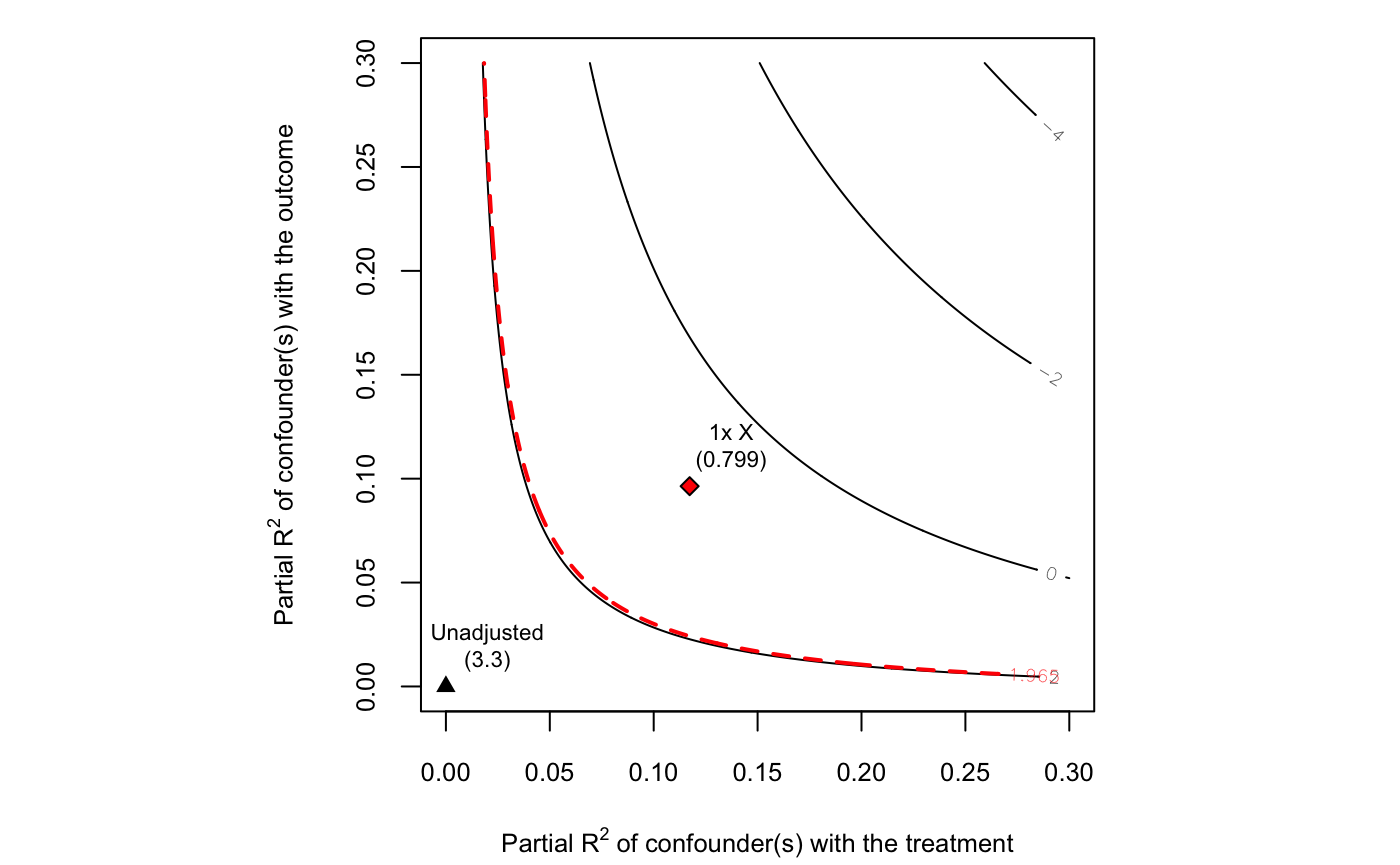
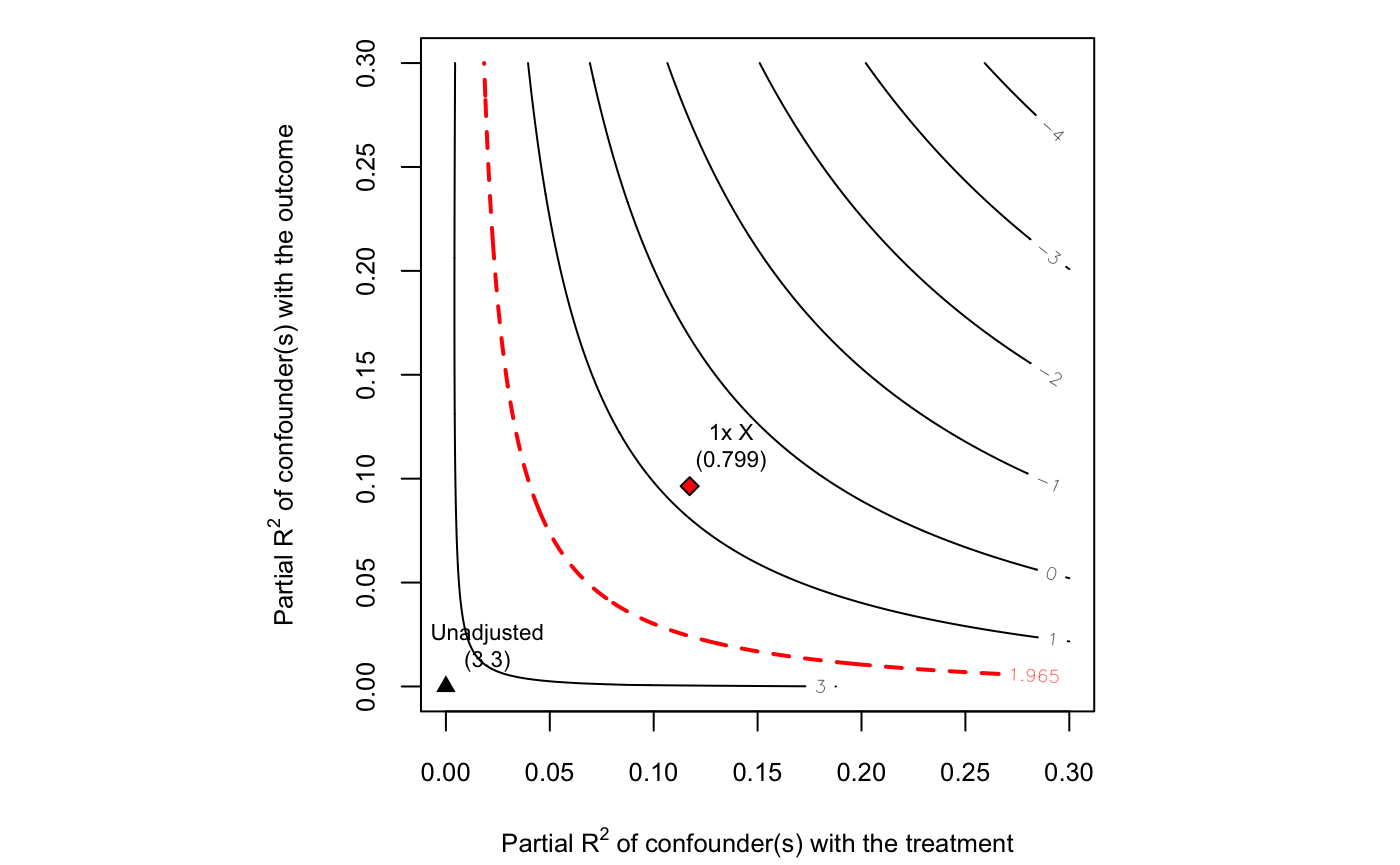
- update on "too close" contour lines

diff --git a/docs/articles/sensemakr.html b/docs/articles/sensemakr.html
@@ -141,24 +141,26 @@ Y &amp;= X + Z + U_y
 <a href="#sensitivity-analysis" class="anchor"></a>Sensitivity analysis</h1>
 <p>To peform sensitivity analysis, our investigator starts by passing the estimated model to the function <code><a href="../reference/sensemakr.html">sensemakr()</a></code>, along with the treatment of interest <span class="math inline">\(D\)</span></p>
 <div class="sourceCode" id="cb3"><pre class="sourceCode r"><code class="sourceCode r"><a class="sourceLine" id="cb3-1" data-line-number="1"><span class="kw"><a href="https://rdrr.io/r/base/library.html">library</a></span>(sensemakr)</a>
-<a class="sourceLine" id="cb3-2" data-line-number="2">sense.model &lt;-<span class="st"> </span><span class="kw"><a href="../reference/sensemakr.html">sensemakr</a></span>(<span class="dt">model =</span> lm.model,  <span class="dt">treatment =</span> <span class="st">"D"</span>, </a>
-<a class="sourceLine" id="cb3-3" data-line-number="3">                         <span class="dt">benchmark_covariates =</span> <span class="st">"X"</span>, <span class="dt">kd =</span> <span class="dv">1</span>)</a>
-<a class="sourceLine" id="cb3-4" data-line-number="4">sense.model</a>
-<a class="sourceLine" id="cb3-5" data-line-number="5"><span class="co">#&gt; Sensitivity Analysis to Unobserved Confounding</span></a>
-<a class="sourceLine" id="cb3-6" data-line-number="6"><span class="co">#&gt; </span></a>
-<a class="sourceLine" id="cb3-7" data-line-number="7"><span class="co">#&gt; Model Formula: Y ~ D + X</span></a>
+<a class="sourceLine" id="cb3-2" data-line-number="2">sense.model &lt;-<span class="st"> </span><span class="kw"><a href="../reference/sensemakr.html">sensemakr</a></span>(<span class="dt">model =</span> lm.model,  </a>
+<a class="sourceLine" id="cb3-3" data-line-number="3">                         <span class="dt">treatment =</span> <span class="st">"D"</span>, </a>
+<a class="sourceLine" id="cb3-4" data-line-number="4">                         <span class="dt">benchmark_covariates =</span> <span class="st">"X"</span>, </a>
+<a class="sourceLine" id="cb3-5" data-line-number="5">                         <span class="dt">kd =</span> <span class="dv">1</span>)</a>
+<a class="sourceLine" id="cb3-6" data-line-number="6">sense.model</a>
+<a class="sourceLine" id="cb3-7" data-line-number="7"><span class="co">#&gt; Sensitivity Analysis to Unobserved Confounding</span></a>
 <a class="sourceLine" id="cb3-8" data-line-number="8"><span class="co">#&gt; </span></a>
-<a class="sourceLine" id="cb3-9" data-line-number="9"><span class="co">#&gt; Unadjusted Estimates of ' D ':</span></a>
-<a class="sourceLine" id="cb3-10" data-line-number="10"><span class="co">#&gt;   Coef. estimate: 0.13916 </span></a>
-<a class="sourceLine" id="cb3-11" data-line-number="11"><span class="co">#&gt;   Standard Error: 0.04177 </span></a>
-<a class="sourceLine" id="cb3-12" data-line-number="12"><span class="co">#&gt;   t-value: 3.3319 </span></a>
-<a class="sourceLine" id="cb3-13" data-line-number="13"><span class="co">#&gt; </span></a>
-<a class="sourceLine" id="cb3-14" data-line-number="14"><span class="co">#&gt; Sensitivity Statistics:</span></a>
-<a class="sourceLine" id="cb3-15" data-line-number="15"><span class="co">#&gt;   Partial R2 of treatment with outcome: 0.02185 </span></a>
-<a class="sourceLine" id="cb3-16" data-line-number="16"><span class="co">#&gt;   Robustness Value, q = 1 : 0.1387 </span></a>
-<a class="sourceLine" id="cb3-17" data-line-number="17"><span class="co">#&gt;   Robustness Value, q = 1 alpha = 0.05 : 0.05939 </span></a>
-<a class="sourceLine" id="cb3-18" data-line-number="18"><span class="co">#&gt; </span></a>
-<a class="sourceLine" id="cb3-19" data-line-number="19"><span class="co">#&gt; For more information, check summary.</span></a></code></pre></div>
+<a class="sourceLine" id="cb3-9" data-line-number="9"><span class="co">#&gt; Model Formula: Y ~ D + X</span></a>
+<a class="sourceLine" id="cb3-10" data-line-number="10"><span class="co">#&gt; </span></a>
+<a class="sourceLine" id="cb3-11" data-line-number="11"><span class="co">#&gt; Unadjusted Estimates of ' D ':</span></a>
+<a class="sourceLine" id="cb3-12" data-line-number="12"><span class="co">#&gt;   Coef. estimate: 0.13916 </span></a>
+<a class="sourceLine" id="cb3-13" data-line-number="13"><span class="co">#&gt;   Standard Error: 0.04177 </span></a>
+<a class="sourceLine" id="cb3-14" data-line-number="14"><span class="co">#&gt;   t-value: 3.3319 </span></a>
+<a class="sourceLine" id="cb3-15" data-line-number="15"><span class="co">#&gt; </span></a>
+<a class="sourceLine" id="cb3-16" data-line-number="16"><span class="co">#&gt; Sensitivity Statistics:</span></a>
+<a class="sourceLine" id="cb3-17" data-line-number="17"><span class="co">#&gt;   Partial R2 of treatment with outcome: 0.02185 </span></a>
+<a class="sourceLine" id="cb3-18" data-line-number="18"><span class="co">#&gt;   Robustness Value, q = 1 : 0.1387 </span></a>
+<a class="sourceLine" id="cb3-19" data-line-number="19"><span class="co">#&gt;   Robustness Value, q = 1 alpha = 0.05 : 0.05939 </span></a>
+<a class="sourceLine" id="cb3-20" data-line-number="20"><span class="co">#&gt; </span></a>
+<a class="sourceLine" id="cb3-21" data-line-number="21"><span class="co">#&gt; For more information, check summary.</span></a></code></pre></div>
 <p>What do these results mean?</p>
 <ul>
 <li>The partial R2 of the treatment with the outcome that,</li>
@@ -167,7 +169,9 @@ Y &amp;= X + Z + U_y
 </ul>
 <p>If the investigator know that… she can safely conclude that… on the other hand, if she suspects that… then…</p>
 <p>Sometimes, however, it may be hard to make absolute judgments on the strength of the confounder, but the researchar may have grounds to judge the <em>relative</em> strength of confounding. Thus, let us suppose our researcher further knows that the omitted variable <span class="math inline">\(Z\)</span> could potentially be as strong as the observed covariate <span class="math inline">\(X\)</span>. So she wonders: would a confounder with such strength be enough to be to explain away all the observed association.</p>
-<div class="sourceCode" id="cb4"><pre class="sourceCode r"><code class="sourceCode r"><a class="sourceLine" id="cb4-1" data-line-number="1"><span class="kw"><a href="https://rdrr.io/r/graphics/plot.html">plot</a></span>(sense.model, <span class="dt">sensitivity.of =</span> <span class="st">"t-value"</span>, <span class="dt">nlevels =</span> <span class="dv">5</span>, <span class="dt">lim =</span> <span class="fl">.3</span>)</a></code></pre></div>
+<div class="sourceCode" id="cb4"><pre class="sourceCode r"><code class="sourceCode r"><a class="sourceLine" id="cb4-1" data-line-number="1"><span class="kw"><a href="https://rdrr.io/r/graphics/plot.html">plot</a></span>(sense.model, </a>
+<a class="sourceLine" id="cb4-2" data-line-number="2">     <span class="dt">sensitivity.of =</span> <span class="st">"t-value"</span>, </a>
+<a class="sourceLine" id="cb4-3" data-line-number="3">     <span class="dt">lim =</span> <span class="fl">.3</span>)</a></code></pre></div>
 <p><img src="sensemakr_files/figure-html/unnamed-chunk-5-1.png" width="700" style="display: block; margin: auto;"></p>
 </div>
   </div>
